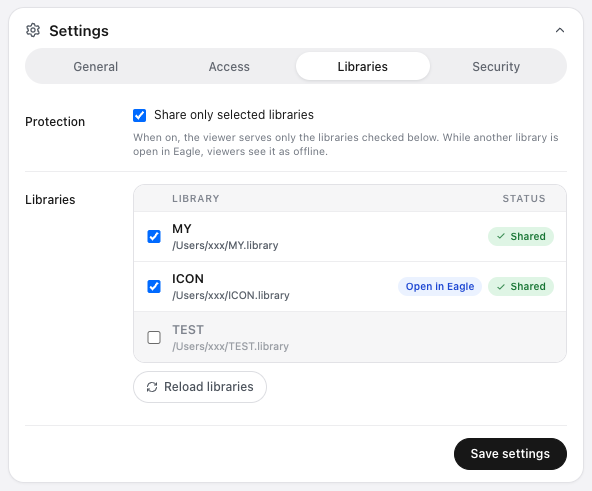
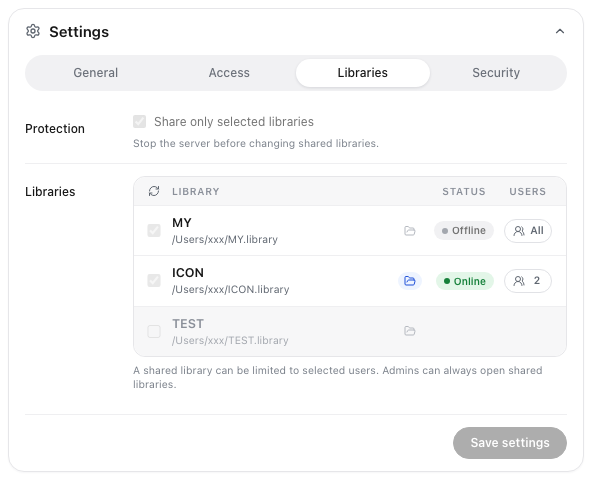
feat: add screenshot functionality for settings tabs and improve Chrome detection

diff --git a/scripts/settings-screenshots.entry.tsx b/scripts/settings-screenshots.entry.tsx
@@ -1,0 +1,80 @@
+// The page scripts/settings-screenshots.mjs captures: the real settings form with sample data.
+// Only for those screenshots; it never ships with the plugin.
+import { createRoot } from "react-dom/client";
+import { SettingsForm } from "../plugin/components/SettingsForm";
+import type { AuthUser, LibraryList, PluginSettings, SettingsTab } from "../plugin/types";
+
+const authUsers: AuthUser[] = [
+  { passwordHash: "sample", role: "admin", username: "admin" },
+  { passwordHash: "sample", role: "viewer", username: "eagle" },
+];
+const sharedLibraries = [
+  { name: "MY", path: "/Users/xxx/MY.library" },
+  { access: "selected" as const, name: "ICON", path: "/Users/xxx/ICON.library", users: ["eagle"] },
+];
+const libraries: LibraryList = {
+  current: sharedLibraries[1],
+  items: [
+    { ...sharedLibraries[0], current: false, shared: true },
+    { ...sharedLibraries[1], current: true, shared: true },
+    { current: false, name: "TEST", path: "/Users/xxx/TEST.library", shared: false },
+  ],
+};
+const settings: PluginSettings = {
+  httpsCertPath: "/Users/xxx/127.0.0.1+2.pem",
+  httpsKeyPath: "/Users/xxx/127.0.0.1+2-key.pem",
+  libraryProtectionEnabled: true,
+  port: 41532,
+  sessionDurationDays: 7,
+  sharedLibraries,
+};
+const noop = () => {};
+const root = document.getElementById("root")!;
+const tab = (new URLSearchParams(location.search).get("tab") || "general") as SettingsTab;
+// A library only shows Online while the server runs, and a running server locks the settings.
+const serverRunning = tab === "libraries";
+
+createRoot(root).render(
+  <SettingsForm
+    authEnabled
+    authUsers={authUsers}
+    busy={false}
+    httpsEnabled
+    libraries={libraries}
+    message=""
+    messageIsError={false}
+    passwordDraftRevision={0}
+    passwordVisibleByIndex={{}}
+    serverRunning={serverRunning}
+    settings={settings}
+    settingsExpanded
+    settingsInputDisabled={serverRunning}
+    settingsTab={tab}
+    userPasswords={{}}
+    onAddAuthUser={noop}
+    onChooseHttpsFile={noop}
+    onCustomDomainChange={noop}
+    onHttpsCertPathChange={noop}
+    onHttpsKeyPathChange={noop}
+    onLibraryProtectionChange={noop}
+    onLibrarySharedChange={noop}
+    onLibraryUsersChange={noop}
+    onPortChange={noop}
+    onReloadLibraries={noop}
+    onRemoveAuthUser={noop}
+    onSaveSettings={noop}
+    onSessionDurationDaysChange={noop}
+    onSettingsExpandedChange={noop}
+    onSettingsTabChange={noop}
+    onTogglePasswordVisible={noop}
+    onUpdateAuthUser={noop}
+    onUserPasswordDraftChange={noop}
+  />,
+);
+
+// The capture script reads this to size the window to the form.
+void document.fonts.ready.then(() => {
+  requestAnimationFrame(() => {
+    document.documentElement.dataset.captureHeight = String(Math.ceil(root.getBoundingClientRect().height));
+  });
+});

diff --git a/docs/EAGLE_PLUGIN_SPEC.md b/docs/EAGLE_PLUGIN_SPEC.md
@@ -122,6 +122,10 @@ The source is managed as a TypeScript / React / Vite / Tailwind CSS / Vitest pro
   - Prints the overview and architecture diagrams for `npm run diagram`
 - `scripts/diagram-images.mjs`
   - Captures those diagrams as dark-mode PNGs in `docs/` for `npm run diagram:images`
+- `scripts/settings-screenshots.mjs`, `scripts/settings-screenshots.entry.tsx`
+  - Captures the Settings tabs as the `docs/server_panel_*.png` README images for `npm run screenshot:settings`
+- `scripts/find-chrome.mjs`
+  - Finds Chrome or Chromium for the capture scripts
 - `scripts/frame-ipad.swift`
   - Frames an iPad screenshot with Xcode's iPad Pro 13" bezel for the README screenshots, for `npm run screenshot:frame`
 
@@ -551,11 +555,14 @@ npm run diagram:images
 
 `npm run diagram:images` captures the colored output as dark-mode PNGs into `docs/architecture_overview.png` and `docs/architecture.png` with headless Chrome. Run it after changing `scripts/diagram.mjs`. Set `CHROME_PATH` when Chrome or Chromium is not in a standard location.
 
-Screenshot command:
+Screenshot commands:
 
 ```sh
+npm run screenshot:settings
 npm run screenshot:frame -- <screenshot> docs/screenshot.png
 ```
+
+`npm run screenshot:settings` builds, then captures the General, Access, Libraries, and Security tabs into `docs/server_panel_general.png`, `docs/server_panel_access.png`, `docs/server_panel_libraries.png`, and `docs/server_panel_security.png` with headless Chrome. It renders the real settings form with the sample data in `scripts/settings-screenshots.entry.tsx`, so it needs neither Eagle nor a running server. Run it after changing the settings form. `docs/server_panel.png` shows the real plugin window and is still taken by hand. Set `CHROME_PATH` when Chrome or Chromium is not in a standard location.
 
 `npm run screenshot:frame` places a landscape iPad Pro 13" screenshot (4:3, such as 2752x2064 from the device or the simulator) inside the iPad bezel and writes a transparent PNG. It needs macOS with Xcode, because the bezel comes from `/Library/Developer/DeviceKit/Chrome/tablet5.devicechrome`. Screenshots with another aspect ratio are refused.
 
